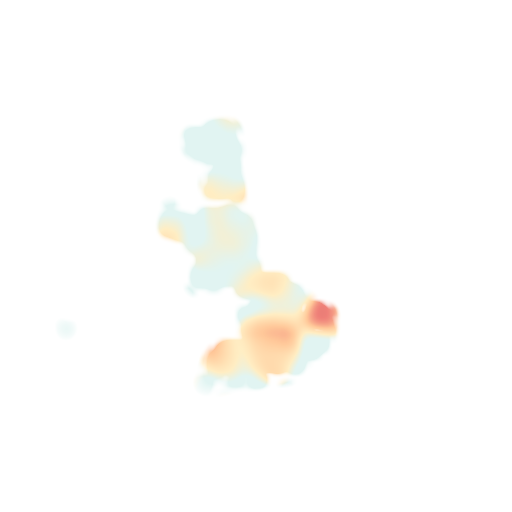
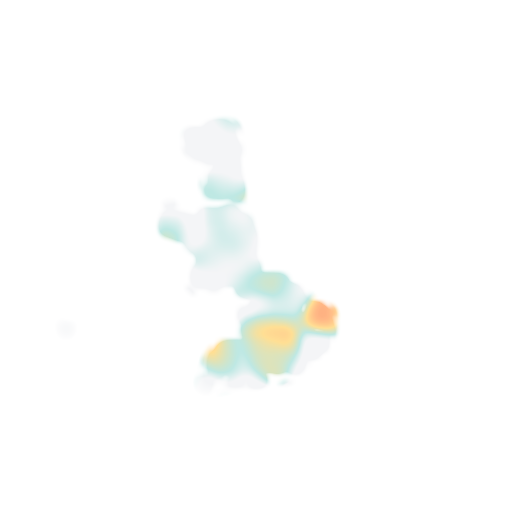
Draw the heat wash in the badge colours
The heat ramp now runs grey, teal, amber, orange, red, the same five
colours as the badges, so the wash and the badges read as one scale.

Changed region(s): [[0.375, 0.5, 0.6562, 0.75], [0.375, 0.3438, 0.5, 0.5], [0.3125, 0.4375, 0.375, 0.4688]]

diff --git a/pipeline/heat.py b/pipeline/heat.py
@@ -108,7 +108,8 @@ def main():
     stops_v = [round(float(v), 2) for v in q]
     for i in range(1, len(stops_v)):  # keep strictly increasing after rounding
         stops_v[i] = max(stops_v[i], stops_v[i - 1] + 0.02)
-    ramp = ["#9ADBD3", "#FFD36A", "#FF9A45", "#E5372B", "#8E1B3A"]
+    # the badge colours, so the wash and the badges read as one scale (grey = calm, red = hot)
+    ramp = ["#DADDE3", "#5CC6BA", "#FFC53D", "#FF8A3D", "#E5372B"]
     stops = [[v, c] for v, c in zip(stops_v, ramp)]
 
     (OUT / "heat").mkdir(parents=True, exist_ok=True)
